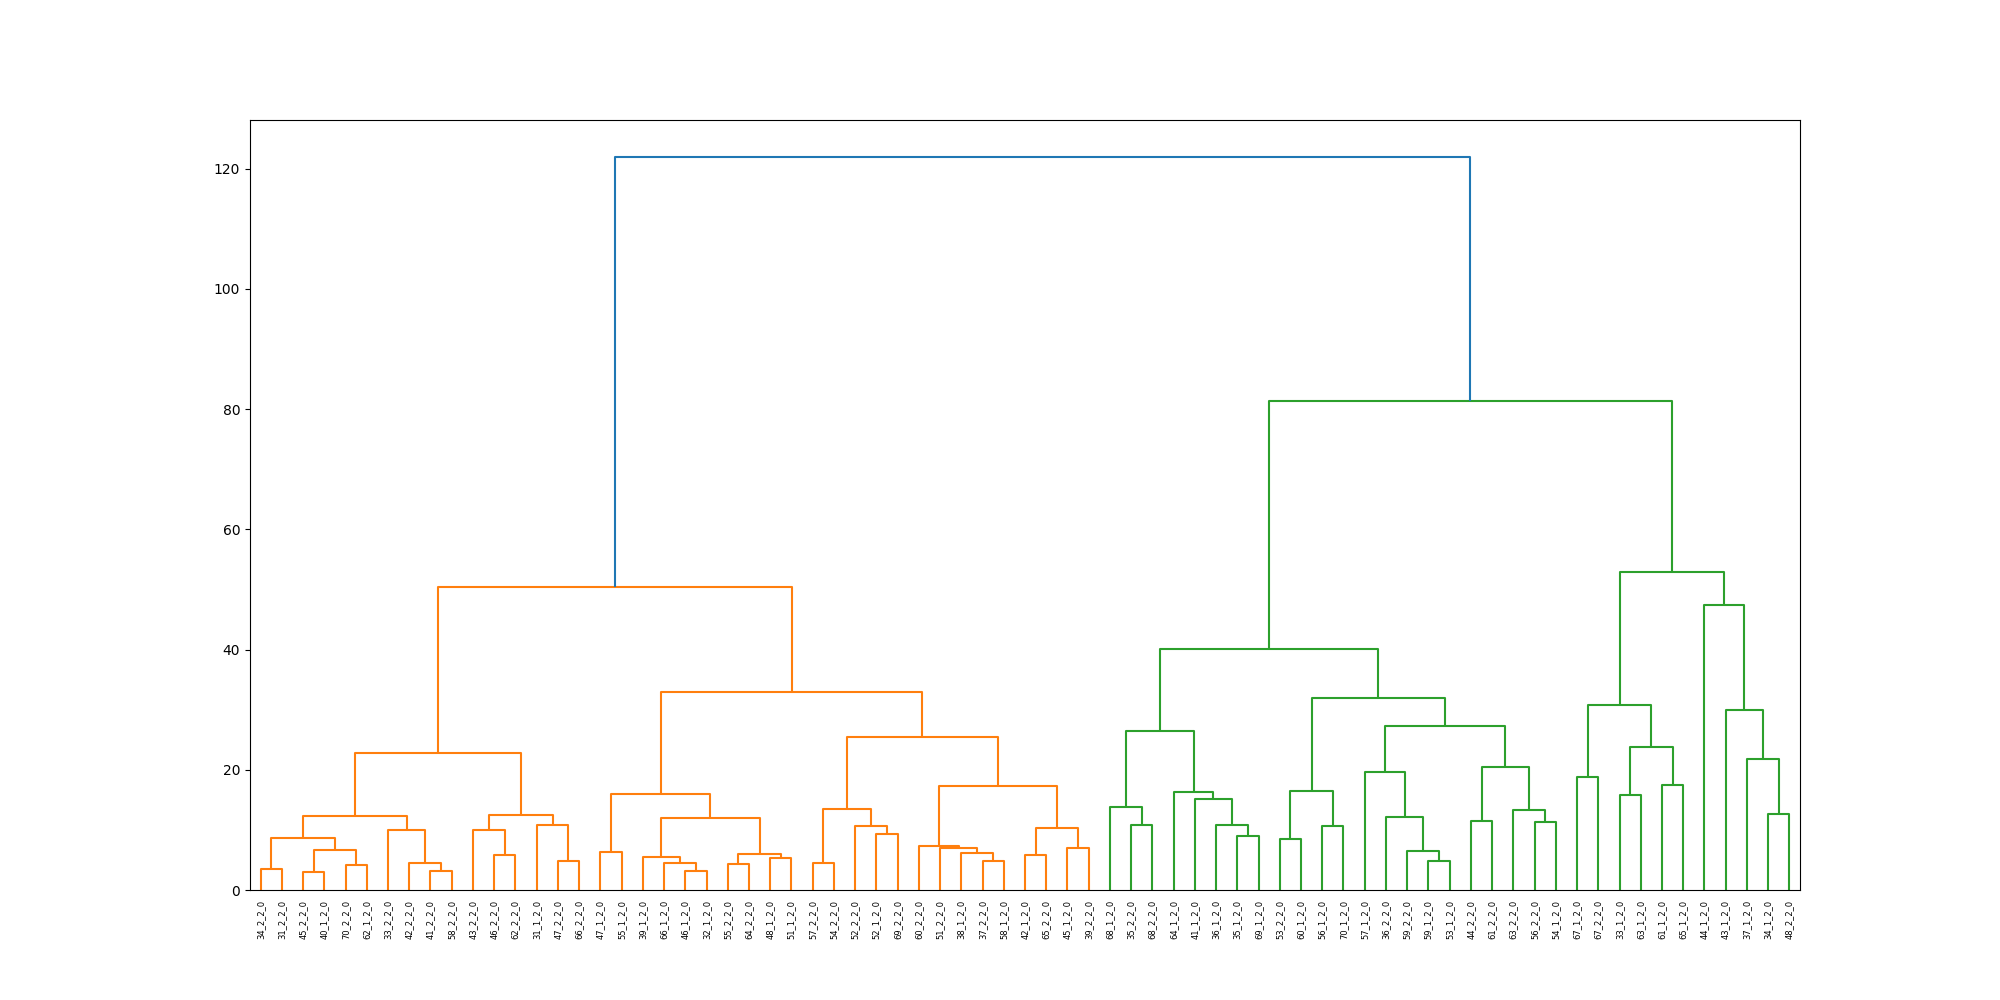
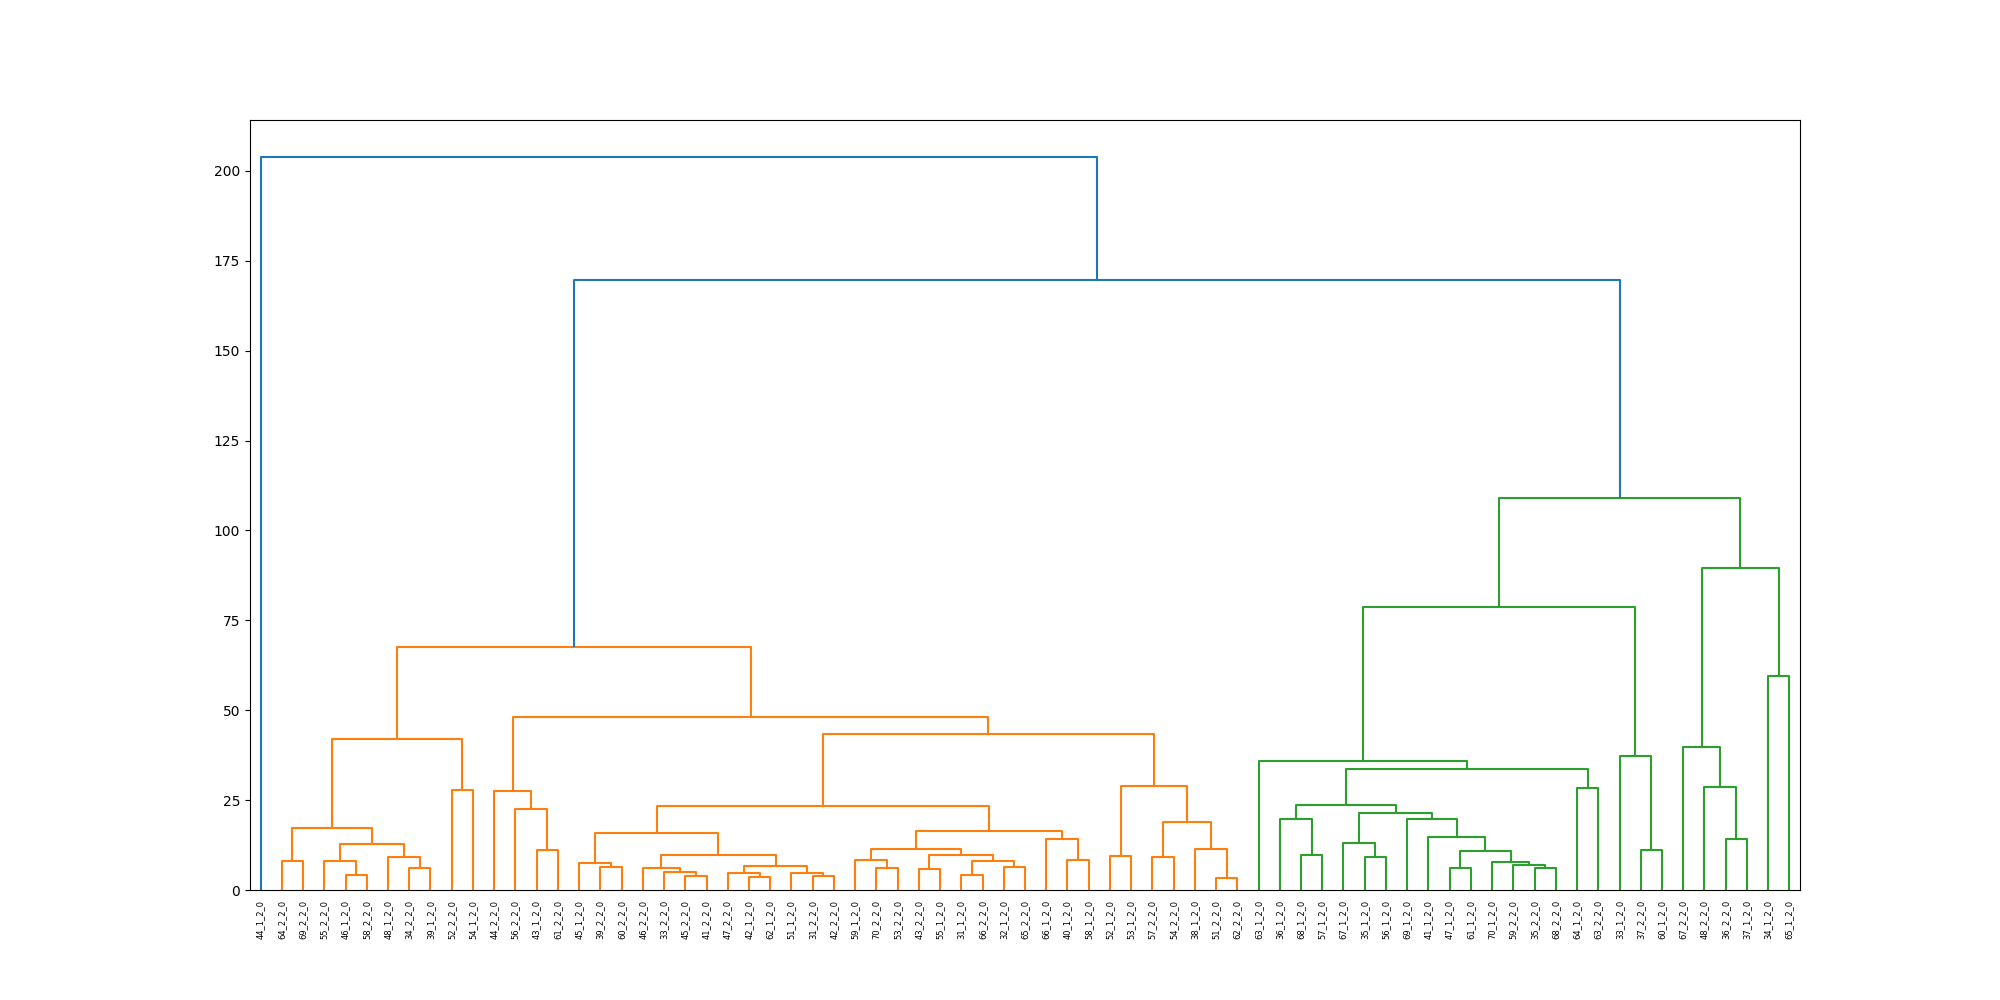
Computing dtw independent (dtwi) Fixed the clustering based on time length issue checked with puzzle 5 --  now based on the two objs interacted with clusters are formed

diff --git a/SRC/framePos.py b/SRC/framePos.py
@@ -4,7 +4,7 @@ import os
 import re
 import numpy as np
 import matplotlib.pyplot as plt
-from dtaidistance import dtw
+from dtaidistance import dtw, dtw_ndim
 from scipy.cluster.hierarchy import dendrogram, linkage, fcluster
 from gif_generator import gif
 import time
@@ -66,7 +66,7 @@ def use_regex(input_text):
 
 frame_folders = ["./Data/Pilot3/Frames/", "./Data/Pilot4/Frames/"]
 
-puzzleNumber=2
+puzzleNumber=5
 sequence_type="POSVEC"
 numCluster = 3
 
@@ -95,13 +95,34 @@ for frame_folder in frame_folders:
                     allSV.append(solutionVector)
                 
                 # print(solutionVector)
-# print(len(allSV))
-# print(len(ids))
-distanceMatrix = dtw.distance_matrix_fast(allSV, compact=True)
-# # print(distanceMatrix)
-# plt.figure(figsize=(10, 10))
-# plt.imshow(distanceMatrix, cmap='hot', interpolation='nearest')
-# plt.show()
+
+# distanceMatrix = dtw.distance_matrix_fast(allSV, compact=True, use_pruning=True)
+
+# for sequence in allSV:
+#     print(sequence.shape)
+
+
+
+
+def dtwI(sequences):
+    n=len(sequences)
+    d=len(sequences[0][0])
+    distanceMatrix = np.empty([n,n])
+    for i in range(n):
+        for j in range(i+1,n):
+            dtw_i=0
+            for k in range(d):
+                print(i,j,k)
+                dtw_i+=dtw.distance_fast(sequences[i][:,k], sequences[j][:,k])
+                # print(dtw_i)
+            distanceMatrix[i][j]=dtw_i
+    # make distanceMatrix in form of scipy pdist  output
+    distanceMatrix = distanceMatrix[np.triu_indices(n, 1)]
+
+    return distanceMatrix
+
+distanceMatrix = dtwI(allSV)
+
 
 if not os.path.exists(f'./Plots_Text/clustering/puzzle{puzzleNumber}_{sequence_type}'):
         os.makedirs(f'./Plots_Text/clustering/puzzle{puzzleNumber}_{sequence_type}')

diff --git a/SRC/cluster.py b/SRC/cluster.py
@@ -284,7 +284,6 @@ def stacked_barplot_interaction(interaction_lists, ids, cluster_id, puzzleNumber
         plt.title(f'Interaction sequence for cluster {cluster_id}', fontsize=20)
 
     plt.legend(handles=legend_patches, loc='upper right')
-
 def hierarchyCluster(numCluster,puzzleNumber, sequence_type):
 
     sequences,ids = getAllSolution(puzzleNumber, sequence_type)
